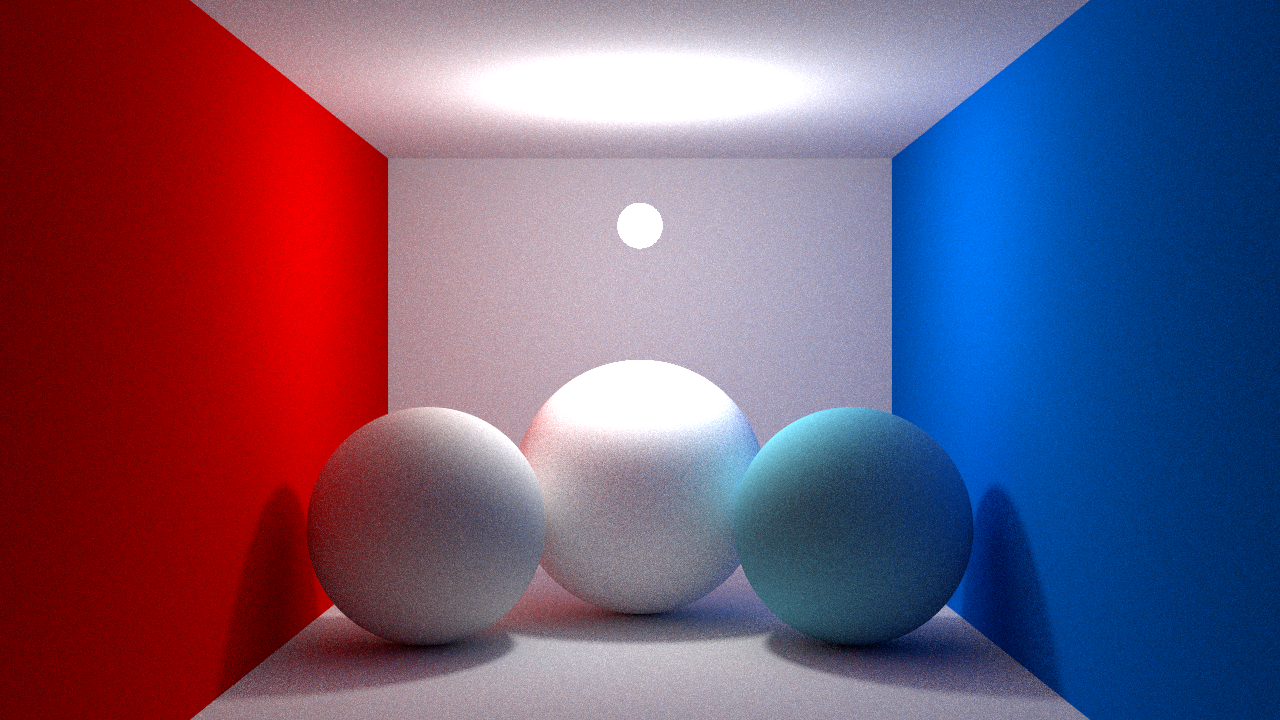
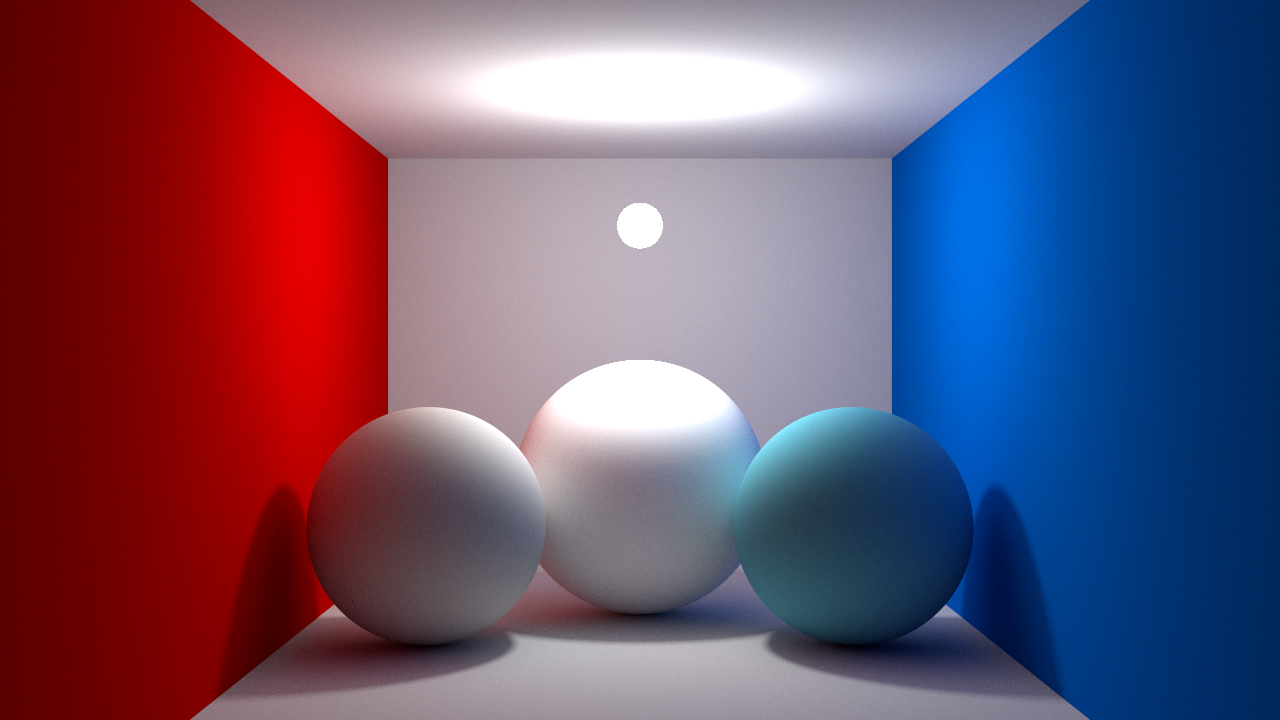
progress on blinn sampling

diff --git a/lib/numli/cg.hpp b/lib/numli/cg.hpp
@@ -94,6 +94,9 @@ template <bra::arithmetic T> struct rgb
   constexpr rgb(T r, T g, T b) {c[0]=r; c[1]=g; c[2]=b;}
   constexpr rgb(T v) {c[0]=v; c[1]=v; c[2]=v;}
   constexpr rgb& operator=(T v) {c[0]=v; c[1]=v; c[2]=v; return *this;}
+  constexpr float r() const {return c[0];}
+  constexpr float g() const {return c[1];}
+  constexpr float b() const {return c[2];}
   constexpr std::string toString()
     {return std::to_string(c[0])+std::to_string(c[1])+std::to_string(c[2]);}
   constexpr float luma() const {return 0.2126f*c[0]+0.7152f*c[1]+0.0722f*c[2];}
@@ -764,11 +767,12 @@ inline bool lambertiani(
   cg::lambertian const &mat,
   hitinfo const &hinfo,
   info<ℝ3,linRGB> &info,
-  RNG &rng)
+  RNG &rng,
+  float p)
 {
   // russian roulette chance
-  float const p = rng.flt();
-  if (p>mat.albedo.luma()) { return false; }
+  float const ξ = rng.flt();
+  if (ξ>p) { return false; }
 
   // generate outgoing direction and fill probability
   basis const base(hinfo.tangent^hinfo.n, hinfo.tangent, hinfo.n);
@@ -784,18 +788,43 @@ inline bool lambertiani(
 }
 /// @brief probability of lambertian generating the sample direction
 inline float probForLambertian(
-  lambertian const &l, hitinfo const &hinfo, ℝ3 const &i)
-  { return hinfo.n|i * inv_π<float>; }
+  lambertian const &l, hitinfo const &hinfo, ℝ3 const &i, float p)
+  { return p * hinfo.n|i * inv_π<float>; }
 
 
 /// @brief samples blinn material for an incoming direction
 inline bool blinni(
-  cg::blinn const &mat, hitinfo const &hinfo, info<ℝ3,linRGB> &info, RNG &rng)
+  cg::blinn const &b, 
+  hitinfo const &hinfo, 
+  info<ℝ3,linRGB> &info, 
+  RNG &rng, 
+  float p)
 {
+  float const lobe = rng.flt();
+  if (lobe>=p) { return false; }
+
+  float p_d = b.Kd.luma();
+  float p_r = b.Ks.luma();
+  float const inv_tot = 1.f/(p_d+p_r);
+  p_d *= p*inv_tot;
+  p_r *= p*inv_tot;
+
+  if (lobe<p_d)
+  { // diffuse lobe sample
+
+  } else if (lobe<p_d+p_r)
+  { // reflection lobe sample
+
+  }
+
   return false;
 }
 /// @brief probability of blinn generating the sample direction
-inline float probForBlinn(blinn const &mat, hitinfo const &hinfo, ℝ3 const &i)
+inline float probForBlinn(
+  blinn const &b, 
+  hitinfo const &hinfo, 
+  ℝ3 const &i, 
+  float p)
 {
   return 0.f;
 }
@@ -807,22 +836,23 @@ constexpr bool materiali(
   hitinfo const &hinfo,
   ℝ3 const &o,
   info<ℝ3,linRGB> &info,
-  RNG &rng)
+  RNG &rng,
+  float p)
 {
   return std::visit(Overload{
-      [&](cg::lambertian const &mat){return lambertiani(mat,hinfo,info,rng);},
-      [&](cg::blinn const &mat){return blinni(mat,hinfo,info,rng);},
+      [&](cg::lambertian const &l){return lambertiani(l,hinfo,info,rng,p);},
+      [&](cg::blinn const &b){return blinni(b,hinfo,info,rng,p);},
       [](auto const &){return false;}
     }, *mat);
 }
 
 /// @brief material sample evaluation dispatch 
 constexpr float probForMateriali(
-  Material const *mat, hitinfo const &hinfo, ℝ3 const &i)
+  Material const *mat, hitinfo const &hinfo, ℝ3 const &i, float p)
 {
   return std::visit(Overload{
-      [&](cg::lambertian const &l){return probForLambertian(l,hinfo,i);},
-      [&](cg::blinn const &m){return probForBlinn(m,hinfo,i);},
+      [&](cg::lambertian const &l){return probForLambertian(l,hinfo,i,p);},
+      [&](cg::blinn const &m){return probForBlinn(m,hinfo,i,p);},
       [](auto const&){return 0.f;}
     }, *mat);
 }

diff --git a/src/renderer.cpp b/src/renderer.cpp
@@ -10,27 +10,41 @@
 using namespace nl::cg;
 using ℝ3 = nl::ℝ3;
 // ************************************
+constexpr uint64_t SPP  = 1024;
+constexpr float SAMPLE_P = 0.9;
+// ************************************
 
 void Renderer::render()
 {
   const uint64_t w = scene.cam.width; const uint64_t h = scene.cam.height;
   image.init(w,h);
 
-  #pragma omp parallel for collapse(2) schedule(runtime)
-  for (uint64_t i=0; i<h; i++) for (uint64_t j=0; j<w; j++)
-  {
+  std::vector<linRGB> irradiance(w*h,0.f);
+
+  #pragma omp parallel
+  { // ** begin parallel region ***************************
+
+  #pragma omp for collapse(2) schedule(runtime)
+  for (uint64_t i=0;i<h;i++) for (uint64_t j=0;j<w;j++)
+  { // compute pixel
     nl::RNG rng(i*w+j);
-    linRGB radiance = 0.f;
-    for (int k=0; k<64; k++)
-    { // multiple samples per pixel
+    linRGB irrad_acc = 0.f;
+    for (uint64_t k=0;k<SPP;k++)
+    { // trace a single path
       sample::info<ray> si;
-      nl::ℝ2 uv = {float(j+rng.flt()), float(i+rng.flt())};
+      nl::ℝ2 const uv = {float(j+rng.flt()), float(i+rng.flt())};
       sample::camera(scene.cam, uv, si, rng);
-      radiance += tracePath(si.val, rng, 0);
+      irrad_acc += tracePath(si.val, rng, 0);
     }
-    radiance /= 64.f;
-    image.data[(h-i-1)*w+j] = sRGB2rgb24(linRGB2sRGB(radiance));
+    irradiance[i*w+j] = irrad_acc;
   }
+
+  #pragma omp for schedule(static, 16)
+  for (uint64_t i=0;i<h;i++) for (uint64_t j=0;j<w;j++)
+  { // write irradiance to image buffer
+    image.data[(h-i-1)*w+j] = sRGB2rgb24(linRGB2sRGB(irradiance[i*w+j]/SPP));
+  }
+  } // ** end of parallel region **************************
 }
 // ****************************************************************************
 
@@ -46,7 +60,7 @@ linRGB Renderer::tracePath(ray const &r, nl::RNG &rng, int scatters) const
       { return std::get<emitter>(mat).radiance; }
 
     // hit an object, scatter if less than max scattering
-    if (scatters > 16) return {0.f,0.f,0.f};
+    if (scatters > 64) return {0.f,0.f,0.f};
     ℝ3 const o = -r.u.normalized();
 
     // ** Light IS estimate *******************************
@@ -78,10 +92,10 @@ linRGB Renderer::tracePath(ray const &r, nl::RNG &rng, int scatters) const
     //   mult = BxDFcosθ
     //   weight = BxDFcosθ/p(ωi)
     sample::info<ℝ3,linRGB> si_i_mat;
-    bool const mat_sample = sample::materiali(&mat, hinfo, o, si_i_mat, rng);
+    bool const sample = sample::materiali(&mat,hinfo,o,si_i_mat,rng,SAMPLE_P);
     
     // no material sample generated, use light IS estimate
-    if (!mat_sample) { return L_IS; }
+    if (!sample) { return L_IS; }
 
     // evaluate L(ωi)
     ray const i_ray = {hinfo.p, si_i_mat.val};
@@ -97,7 +111,8 @@ linRGB Renderer::tracePath(ray const &r, nl::RNG &rng, int scatters) const
 
     // ** MIS estimate ************************************
     float const p_L_mati = sample::probForLight(si_l.val, i_ray)*si_l.prob;
-    float const p_mat_Li = sample::probForMateriali(&mat, hinfo, si_i_L.val);
+    float const p_mat_Li = 
+      sample::probForMateriali(&mat, hinfo, si_i_L.val, SAMPLE_P);
 
     // power heuristic weights, β=2
     float const p_L_i = si_i_L.prob*si_l.prob;

diff --git a/src/main.cpp b/src/main.cpp
@@ -8,7 +8,7 @@
 #include "lambda.hpp"
 // ************************************
 
-int main(int argc, char *argv)
+int main(int argc, char **argv)
 {
   Lambda λ;
   
